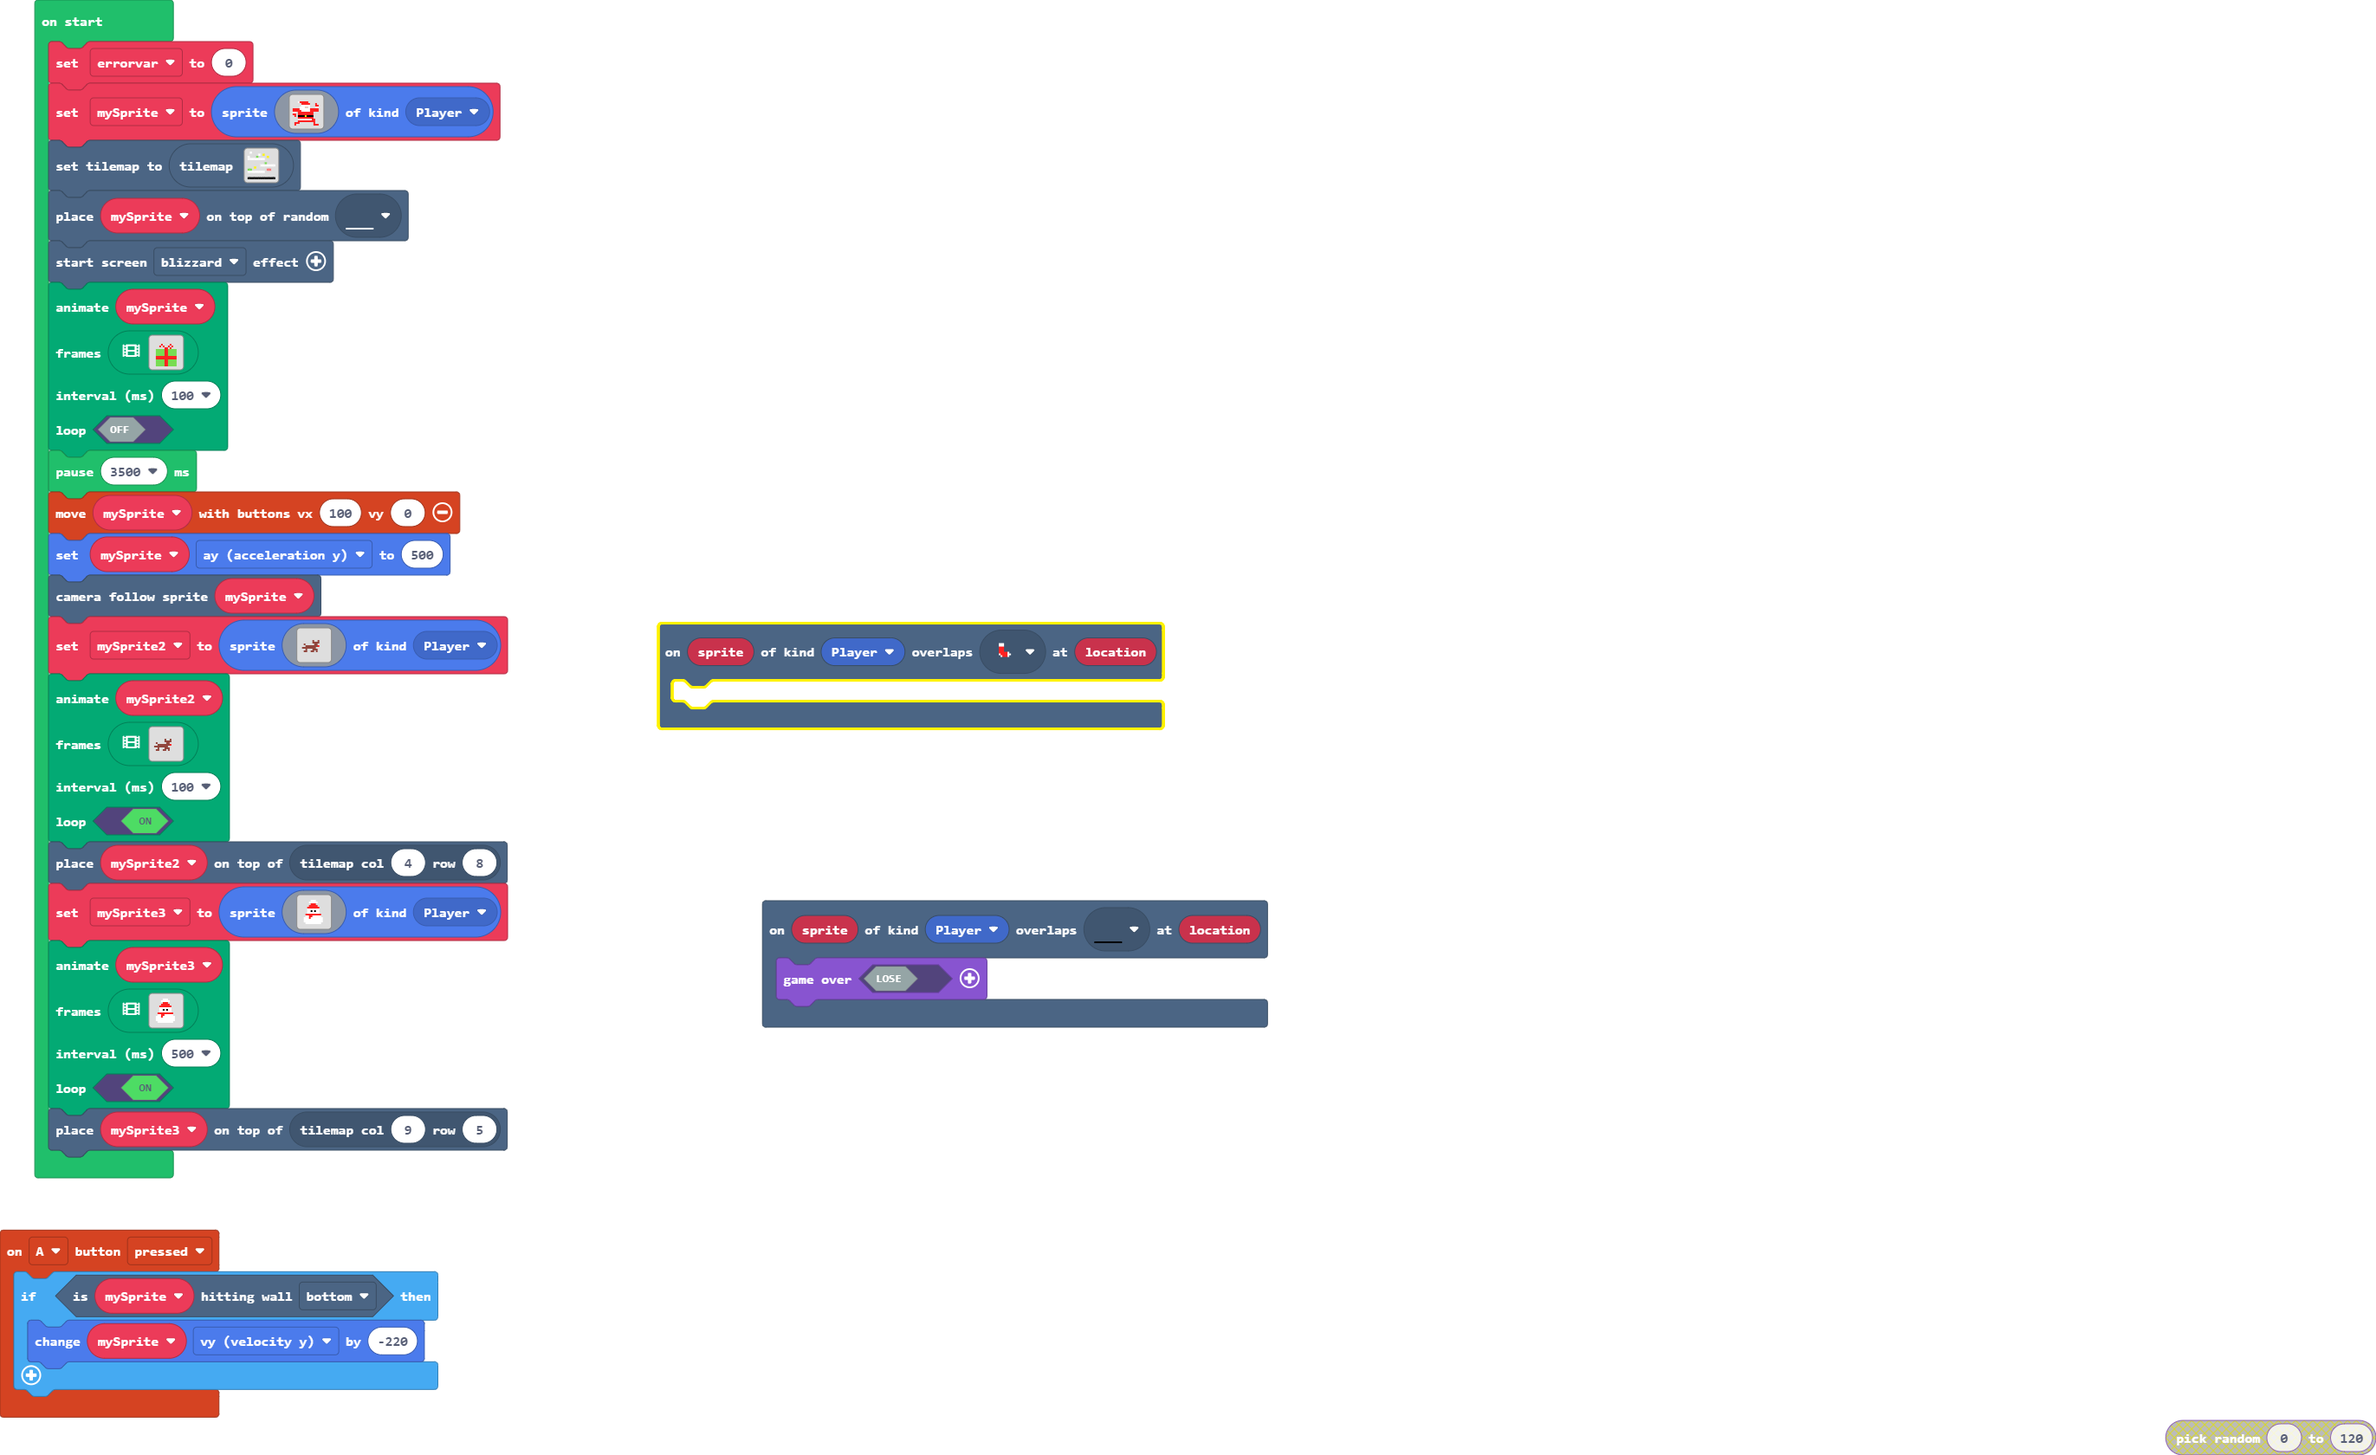
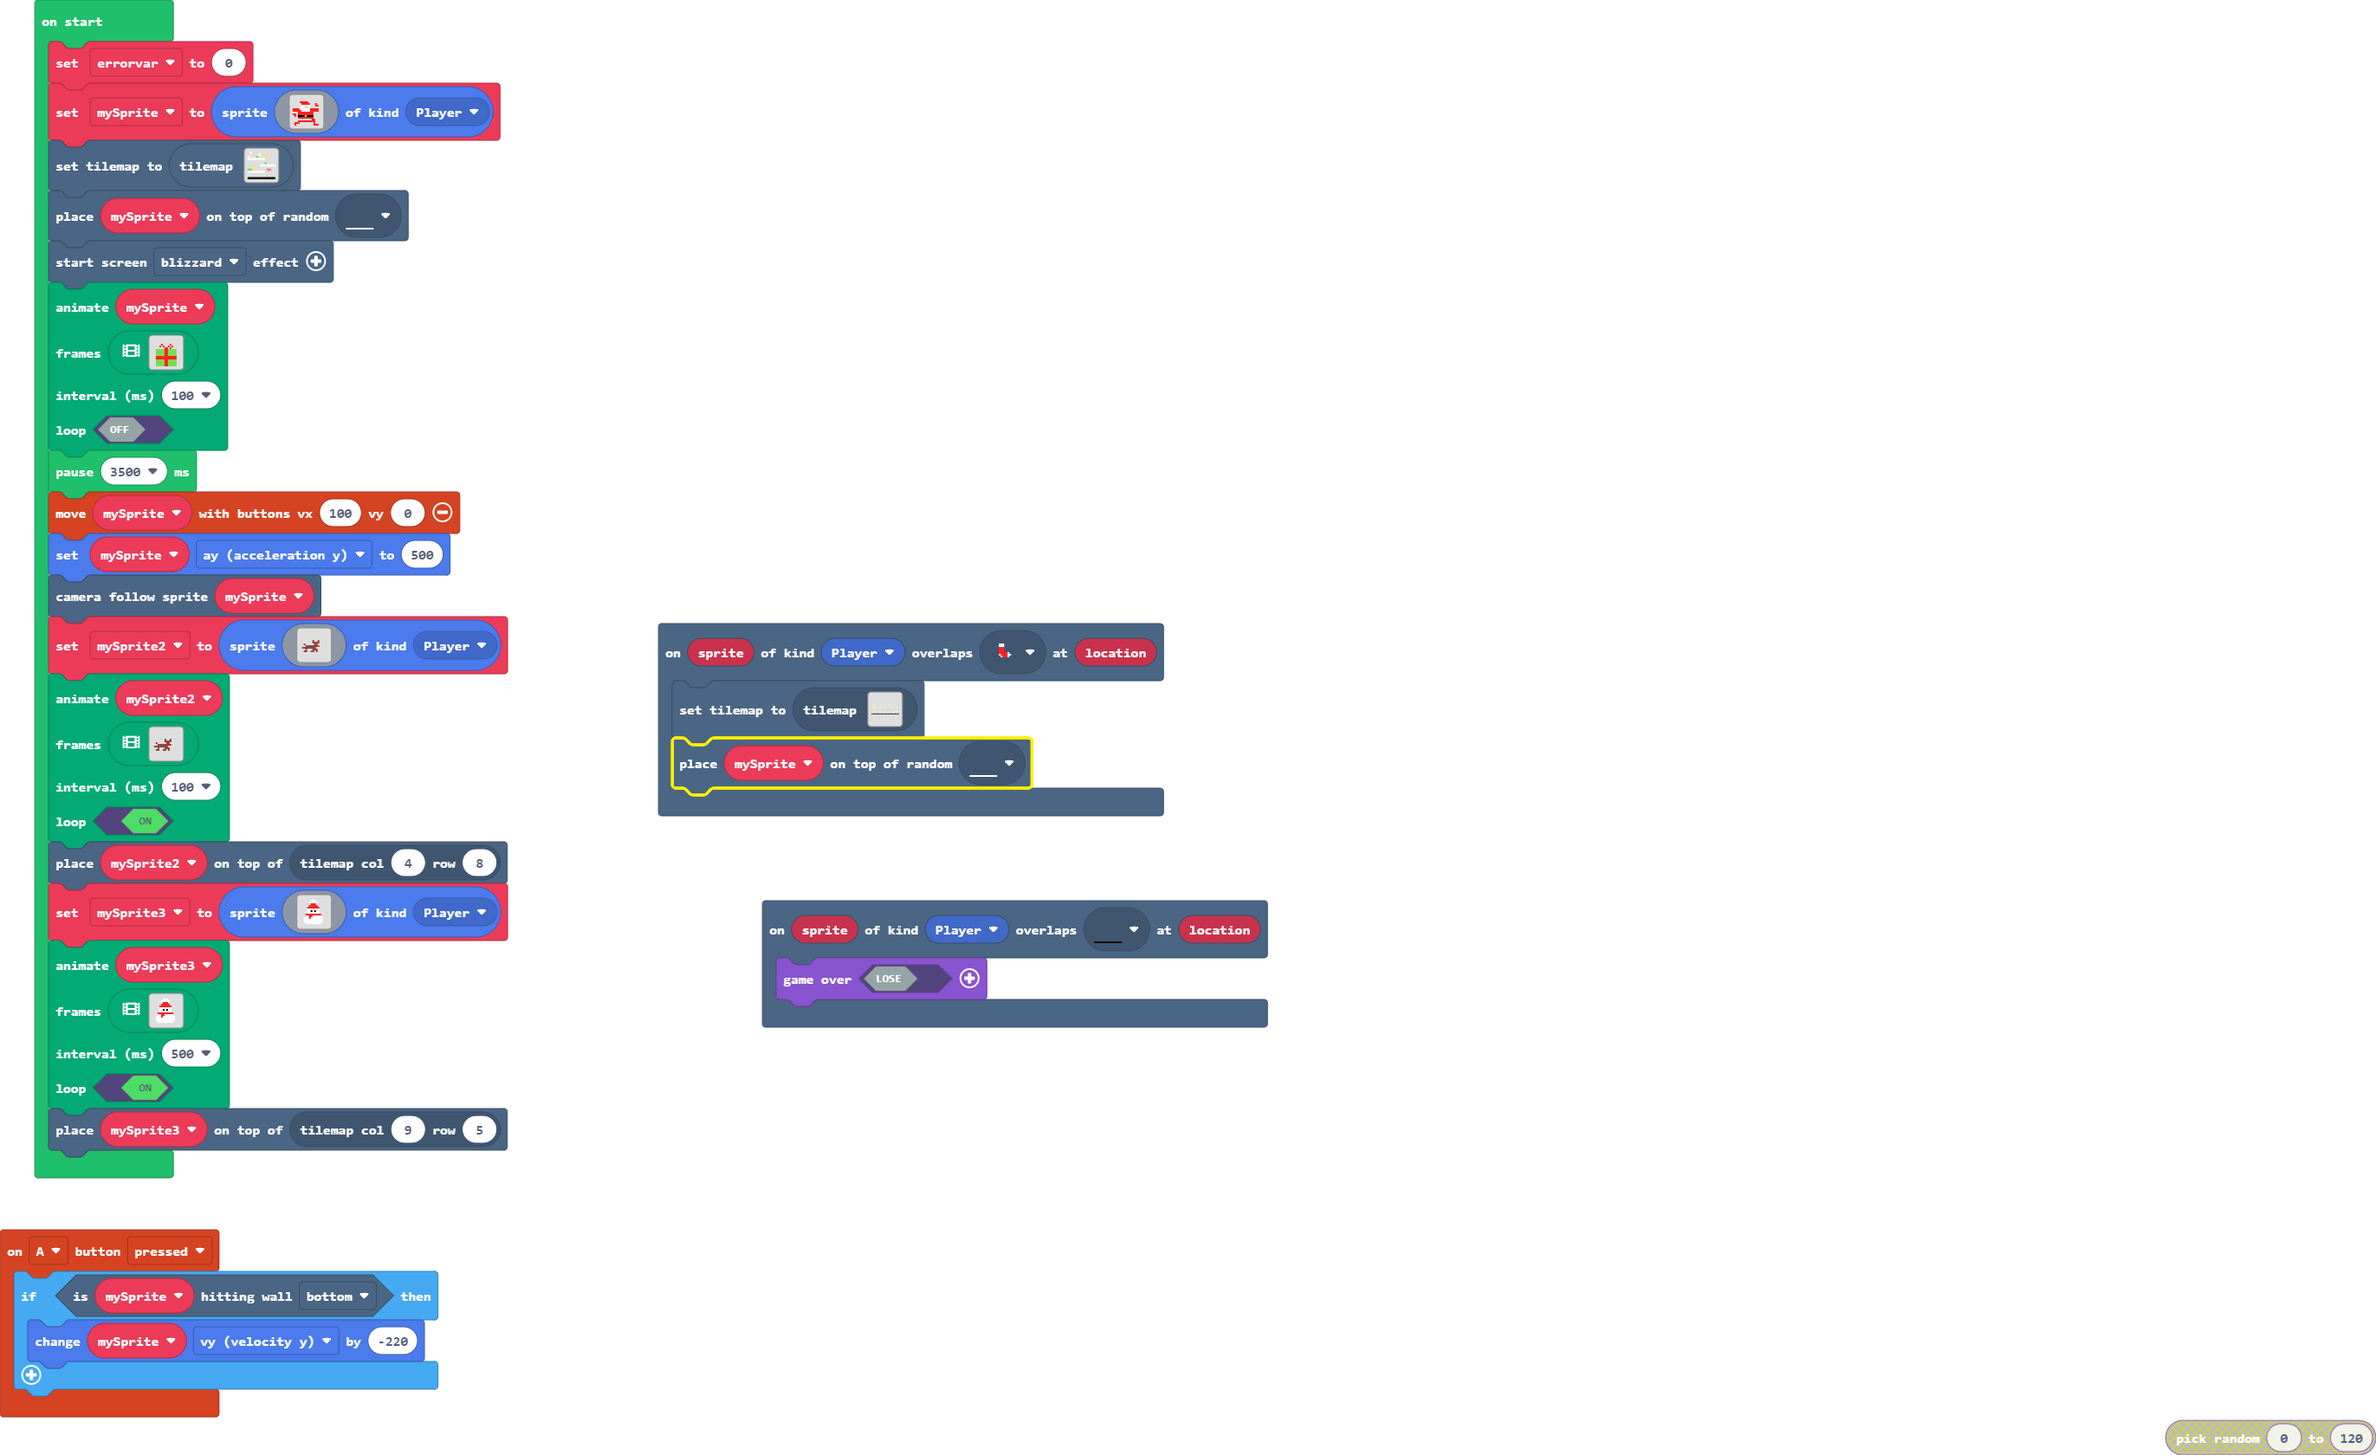
Some level design

Changed region(s): [[0.2789, 0.4333, 0.4958, 0.5881]]

diff --git a/tilemap.g.ts b/tilemap.g.ts
@@ -292,6 +292,196 @@ namespace myTiles {
 . . . . . . . . . . . . . . . . 
 . . . . . . . . . . . . . . . . 
 `, [myTiles.transparency16], TileScale.Sixteen);
+            case "level15":
+            case "level15":return tiles.createTilemap(hex`1000100000000000000000000000000000000000000000000000000000000000000000000000000000000000000000000000000000000000000000000000000000000000000000000000000000000000000000000000000000000000000000000000000000000000000000000000000000000000000000000000000000000000000000000000000000000000000000000000000000000000000000000000000000000000000000000000000000000000000000000000000000000000000000000000000000000000000000000000000000000000000000000000000000000000000000000000000000000000000000000000000000000000000000000000000000000000`, img`
+. . . . . . . . . . . . . . . . 
+. . . . . . . . . . . . . . . . 
+. . . . . . . . . . . . . . . . 
+. . . . . . . . . . . . . . . . 
+. . . . . . . . . . . . . . . . 
+. . . . . . . . . . . . . . . . 
+. . . . . . . . . . . . . . . . 
+. . . . . . . . . . . . . . . . 
+. . . . . . . . . . . . . . . . 
+. . . . . . . . . . . . . . . . 
+. . . . . . . . . . . . . . . . 
+. . . . . . . . . . . . . . . . 
+. . . . . . . . . . . . . . . . 
+. . . . . . . . . . . . . . . . 
+. . . . . . . . . . . . . . . . 
+. . . . . . . . . . . . . . . . 
+`, [myTiles.transparency16], TileScale.Sixteen);
+            case "level16":
+            case "level16":return tiles.createTilemap(hex`1000100000000000000000000000000000000000000000000000000000000000000000000000000000000000000000000000000000000000000000000000000000000000000000000000000000000000000000000000000000000000000000000000000000000000000000000000000000000000000000000000000000000000000000000000000000000000000000000000000000000000000000000000000000000000000000000000000000000000000000000000000000000000000000000000000000000000000000000000000000000000000000000000000000000000000000000000000000000000000000000000000000000000000000000000000000000000`, img`
+. . . . . . . . . . . . . . . . 
+. . . . . . . . . . . . . . . . 
+. . . . . . . . . . . . . . . . 
+. . . . . . . . . . . . . . . . 
+. . . . . . . . . . . . . . . . 
+. . . . . . . . . . . . . . . . 
+. . . . . . . . . . . . . . . . 
+. . . . . . . . . . . . . . . . 
+. . . . . . . . . . . . . . . . 
+. . . . . . . . . . . . . . . . 
+. . . . . . . . . . . . . . . . 
+. . . . . . . . . . . . . . . . 
+. . . . . . . . . . . . . . . . 
+. . . . . . . . . . . . . . . . 
+. . . . . . . . . . . . . . . . 
+. . . . . . . . . . . . . . . . 
+`, [myTiles.transparency16], TileScale.Sixteen);
+            case "level17":
+            case "level17":return tiles.createTilemap(hex`1000100000000000000000000000000000000000000000000000000000000000000000000000000000000000000000000000000000000000000000000000000000000000000000000000000000000000000000000000000000000000000000000000000000000000000000000000000000000000000000000000000000000000000000000000000000000000000000000000000000000000000000000000000000000000000000000000000000000000000000000000000000000000000000000000000000000000000000000000000000000000000000000000000000000000000000000000000000000000000000000000000000000000000000000000000000000000`, img`
+. . . . . . . . . . . . . . . . 
+. . . . . . . . . . . . . . . . 
+. . . . . . . . . . . . . . . . 
+. . . . . . . . . . . . . . . . 
+. . . . . . . . . . . . . . . . 
+. . . . . . . . . . . . . . . . 
+. . . . . . . . . . . . . . . . 
+. . . . . . . . . . . . . . . . 
+. . . . . . . . . . . . . . . . 
+. . . . . . . . . . . . . . . . 
+. . . . . . . . . . . . . . . . 
+. . . . . . . . . . . . . . . . 
+. . . . . . . . . . . . . . . . 
+. . . . . . . . . . . . . . . . 
+. . . . . . . . . . . . . . . . 
+. . . . . . . . . . . . . . . . 
+`, [myTiles.transparency16], TileScale.Sixteen);
+            case "level18":
+            case "level18":return tiles.createTilemap(hex`1000100000000000000000000000000000000000000000000000000000000000000000000000000000000000000000000000000000000000000000000000000000000000000000000000000000000000000000000000000000000000000000000000000000000000000000000000000000000000000000000000000000000000000000000000000000000000000000000000000000000000000000000000000000000000000000000000000000000000000000000000000000000000000000000000000000000000000000000000000000000000000000000000000000000000000000000000000000000000000000000000000000000000000000000000000000000000`, img`
+. . . . . . . . . . . . . . . . 
+. . . . . . . . . . . . . . . . 
+. . . . . . . . . . . . . . . . 
+. . . . . . . . . . . . . . . . 
+. . . . . . . . . . . . . . . . 
+. . . . . . . . . . . . . . . . 
+. . . . . . . . . . . . . . . . 
+. . . . . . . . . . . . . . . . 
+. . . . . . . . . . . . . . . . 
+. . . . . . . . . . . . . . . . 
+. . . . . . . . . . . . . . . . 
+. . . . . . . . . . . . . . . . 
+. . . . . . . . . . . . . . . . 
+. . . . . . . . . . . . . . . . 
+. . . . . . . . . . . . . . . . 
+. . . . . . . . . . . . . . . . 
+`, [myTiles.transparency16], TileScale.Sixteen);
+            case "level19":
+            case "level19":return tiles.createTilemap(hex`1000100000000000000000000000000000000000000000000000000000000000000000000000000000000000000000000000000000000000000000000000000000000000000000000000000000000000000000000000000000000000000000000000000000000000000000000000000000000000000000000000000000000000000000000000000000000000000000000000000000000000000000000000000000000000000000000000000000000000000000000000000000000000000000000000000000000000000000000000000000000000000000000000000000000000000000000000000000000000000000000000000000000000000000000000000000000000`, img`
+. . . . . . . . . . . . . . . . 
+. . . . . . . . . . . . . . . . 
+. . . . . . . . . . . . . . . . 
+. . . . . . . . . . . . . . . . 
+. . . . . . . . . . . . . . . . 
+. . . . . . . . . . . . . . . . 
+. . . . . . . . . . . . . . . . 
+. . . . . . . . . . . . . . . . 
+. . . . . . . . . . . . . . . . 
+. . . . . . . . . . . . . . . . 
+. . . . . . . . . . . . . . . . 
+. . . . . . . . . . . . . . . . 
+. . . . . . . . . . . . . . . . 
+. . . . . . . . . . . . . . . . 
+. . . . . . . . . . . . . . . . 
+. . . . . . . . . . . . . . . . 
+`, [myTiles.transparency16], TileScale.Sixteen);
+            case "level20":
+            case "level20":return tiles.createTilemap(hex`1000100000000000000000000000000000000000000000000000000000000000000000000000000000000000000000000000000000000000000000000000000000000000000000000000000000000000000000000000000000000000000000000000000000000000000000000000000000000000000000000000000000000000000000000000000000000000000000000000000000000000000000000000000000000000000000000000000000000000000000000000000000000000000000000000000000000000000000000000000000000000000000000000000000000000000000000000000000000000000000000000000000000000000000000000000000000000`, img`
+. . . . . . . . . . . . . . . . 
+. . . . . . . . . . . . . . . . 
+. . . . . . . . . . . . . . . . 
+. . . . . . . . . . . . . . . . 
+. . . . . . . . . . . . . . . . 
+. . . . . . . . . . . . . . . . 
+. . . . . . . . . . . . . . . . 
+. . . . . . . . . . . . . . . . 
+. . . . . . . . . . . . . . . . 
+. . . . . . . . . . . . . . . . 
+. . . . . . . . . . . . . . . . 
+. . . . . . . . . . . . . . . . 
+. . . . . . . . . . . . . . . . 
+. . . . . . . . . . . . . . . . 
+. . . . . . . . . . . . . . . . 
+. . . . . . . . . . . . . . . . 
+`, [myTiles.transparency16], TileScale.Sixteen);
+            case "level21":
+            case "level21":return tiles.createTilemap(hex`1000100000000000000000000000000000000000000000000000000000000000000000000000000000000000000000000000000000000000000000000000000000000000000000000000000000000000000000000000000000000000000000000000000000000000000000000000000000000000000000000000000000000000000000000000000000000000000000000000000000000000000000000000000000000000000000000000000000000000000000000000000000000000000000000000000000000000000000000000000000000000000000000000000000000000000000000000000000000000000000000000000000000000000000000000000000000000`, img`
+. . . . . . . . . . . . . . . . 
+. . . . . . . . . . . . . . . . 
+. . . . . . . . . . . . . . . . 
+. . . . . . . . . . . . . . . . 
+. . . . . . . . . . . . . . . . 
+. . . . . . . . . . . . . . . . 
+. . . . . . . . . . . . . . . . 
+. . . . . . . . . . . . . . . . 
+. . . . . . . . . . . . . . . . 
+. . . . . . . . . . . . . . . . 
+. . . . . . . . . . . . . . . . 
+. . . . . . . . . . . . . . . . 
+. . . . . . . . . . . . . . . . 
+. . . . . . . . . . . . . . . . 
+. . . . . . . . . . . . . . . . 
+. . . . . . . . . . . . . . . . 
+`, [myTiles.transparency16], TileScale.Sixteen);
+            case "level22":
+            case "level22":return tiles.createTilemap(hex`1000100000000000000000000000000000000000000000000000000000000000000000000000000000000000000000000000000000000000000000000000000000000000000000000000000000000000000000000000000000000000000000000000000000000000000000000000000000000000000000000000000000000000000000000000000000000000000000000000000000000000000000000000000000000000000000000000000000000000000000000000000000000000000000000000000000000000000000000000000000000000000000000000000000000000000000000000000000000000000000000000000000000000000000000000000000000000`, img`
+. . . . . . . . . . . . . . . . 
+. . . . . . . . . . . . . . . . 
+. . . . . . . . . . . . . . . . 
+. . . . . . . . . . . . . . . . 
+. . . . . . . . . . . . . . . . 
+. . . . . . . . . . . . . . . . 
+. . . . . . . . . . . . . . . . 
+. . . . . . . . . . . . . . . . 
+. . . . . . . . . . . . . . . . 
+. . . . . . . . . . . . . . . . 
+. . . . . . . . . . . . . . . . 
+. . . . . . . . . . . . . . . . 
+. . . . . . . . . . . . . . . . 
+. . . . . . . . . . . . . . . . 
+. . . . . . . . . . . . . . . . 
+. . . . . . . . . . . . . . . . 
+`, [myTiles.transparency16], TileScale.Sixteen);
+            case "level23":
+            case "level23":return tiles.createTilemap(hex`1000100000000000000000000000000000000000000000000000000000000000000000000000000000000000000000000000000000000000000000000000000000000000000000000000000000000000000000000000000000000000000000000000000000000000000000000000000000000000000000000000000000000000000000000000000000000000000000000000000000000000000000000000000000000000000000000000000000000000000000000000000000000000000000000000000000000000000000000000000000000000000000000000000000000000000000000000000000000000000000000000000000000000000000000000000000000000`, img`
+. . . . . . . . . . . . . . . . 
+. . . . . . . . . . . . . . . . 
+. . . . . . . . . . . . . . . . 
+. . . . . . . . . . . . . . . . 
+. . . . . . . . . . . . . . . . 
+. . . . . . . . . . . . . . . . 
+. . . . . . . . . . . . . . . . 
+. . . . . . . . . . . . . . . . 
+. . . . . . . . . . . . . . . . 
+. . . . . . . . . . . . . . . . 
+. . . . . . . . . . . . . . . . 
+. . . . . . . . . . . . . . . . 
+. . . . . . . . . . . . . . . . 
+. . . . . . . . . . . . . . . . 
+. . . . . . . . . . . . . . . . 
+. . . . . . . . . . . . . . . . 
+`, [myTiles.transparency16], TileScale.Sixteen);
+            case "level24":
+            case "level24":return tiles.createTilemap(hex`2800100000000000000000000000000000000000000000000000000000000000000000000000000000000000000003000000040003000000000000000000030000000000040300000000000004000000000000000000000000000000000000000003000000000000000000000003000000000000000000000000000000000000000000000000000000000000000003000000000003000000000000000300000000000000000000000003000000040000000000040000000000000000000000000000000000000000000000000000030000030000000000000000000000000000000000000000000403000000000000000400000000000000000000000300000003000004000003000003000000000000000000000000000000000000000400000000000000000000000000000000000000000000000000000000000000000000000300000000000300000000000000000000000000000000000000000000000000000000000000000000000500000000000000000001000000000000000000000000000000000000000000000000000000000000000000000000010000070206000000000000000000000000000000000000000000000001000000010801000000070600000000000000000000010000010000000000010000000100000007020202020202020600000000000000000000000000070202020600000007020600000702020600000000000000000000000000000000000000000000000000000000000000000000000000000000000000000000000000000000000000000000000000000000000000000000000000000000000000000000000000000009090909090909090909090909090909090909090909090909090909090909090909090909090909`, img`
+........................................
+........................................
+........................................
+........................................
+........................................
+........................................
+........................................
+........................................
+........................................
+........................................
+.........222............................
+.....22...........................222222
+22..............22222...222..2222.......
+........................................
+........................................
+........................................
+`, [myTiles.transparency16,myTiles.tile1,myTiles.tile2,myTiles.tile3,myTiles.tile4,myTiles.tile5,myTiles.tile6,myTiles.tile7,myTiles.tile8,myTiles.tile9], TileScale.Sixteen);
         }
         return null;
     })

diff --git a/main.ts b/main.ts
@@ -10,7 +10,8 @@ scene.onOverlapTile(SpriteKind.Player, assets.tile`myTile7`, function (sprite, l
     game.over(false)
 })
 scene.onOverlapTile(SpriteKind.Player, assets.tile`myTile3`, function (sprite, location) {
-	
+    tiles.setCurrentTilemap(tilemap`level24`)
+    tiles.placeOnRandomTile(mySprite, assets.tile`myTile6`)
 })
 let mySprite: Sprite = null
 let errorvar = 0
